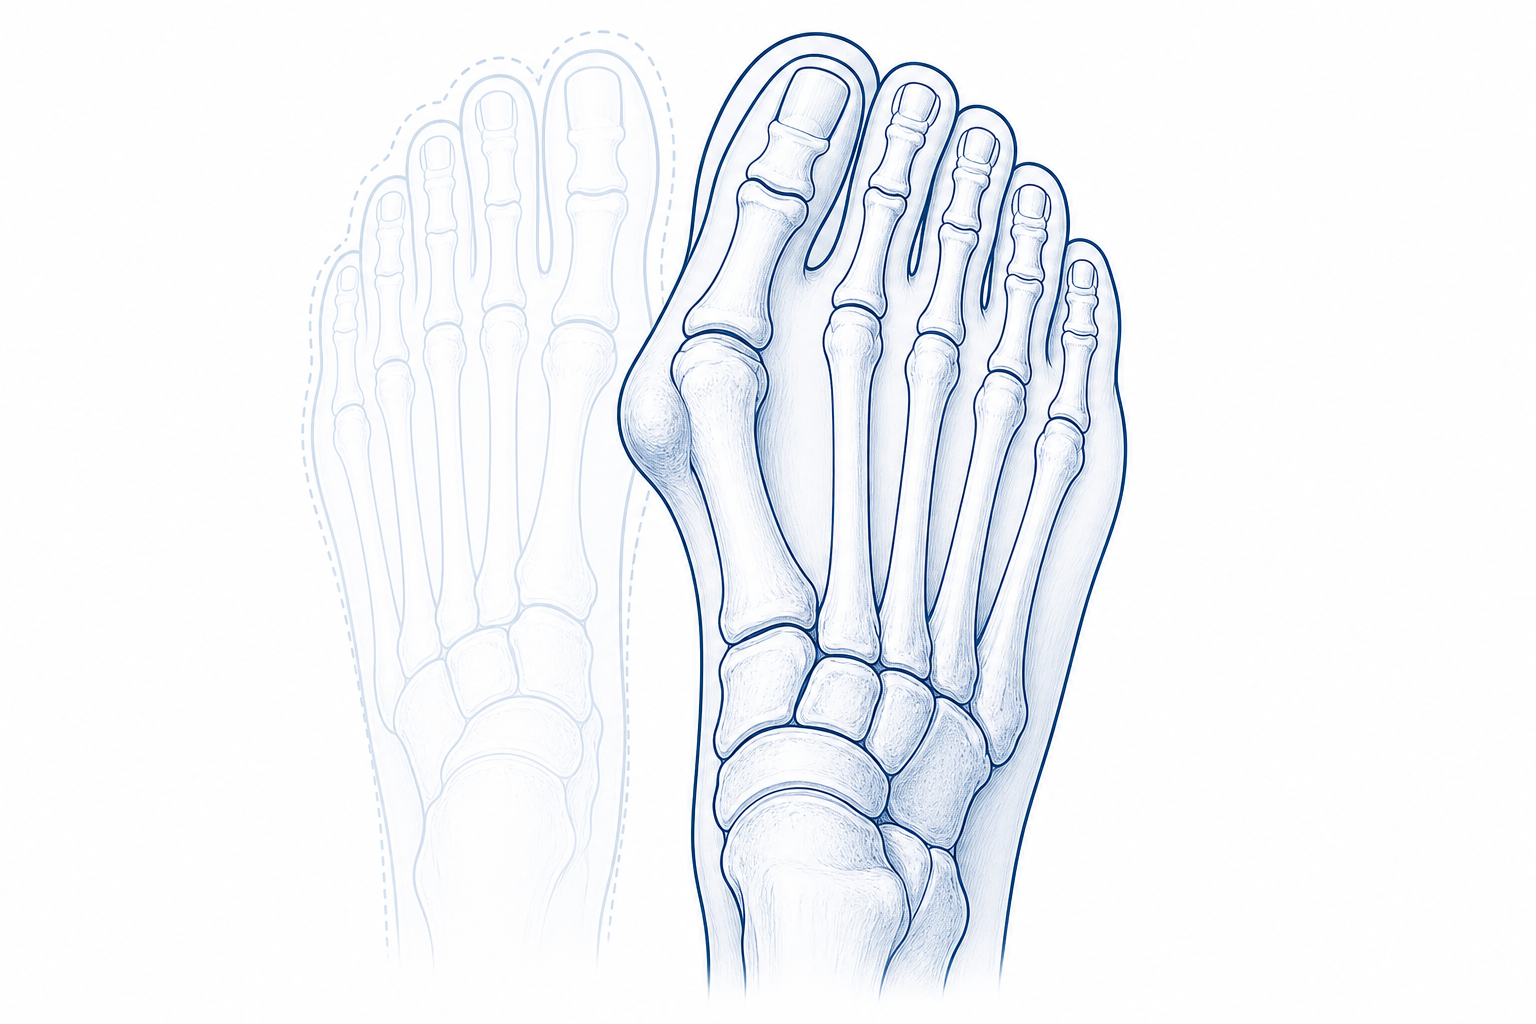
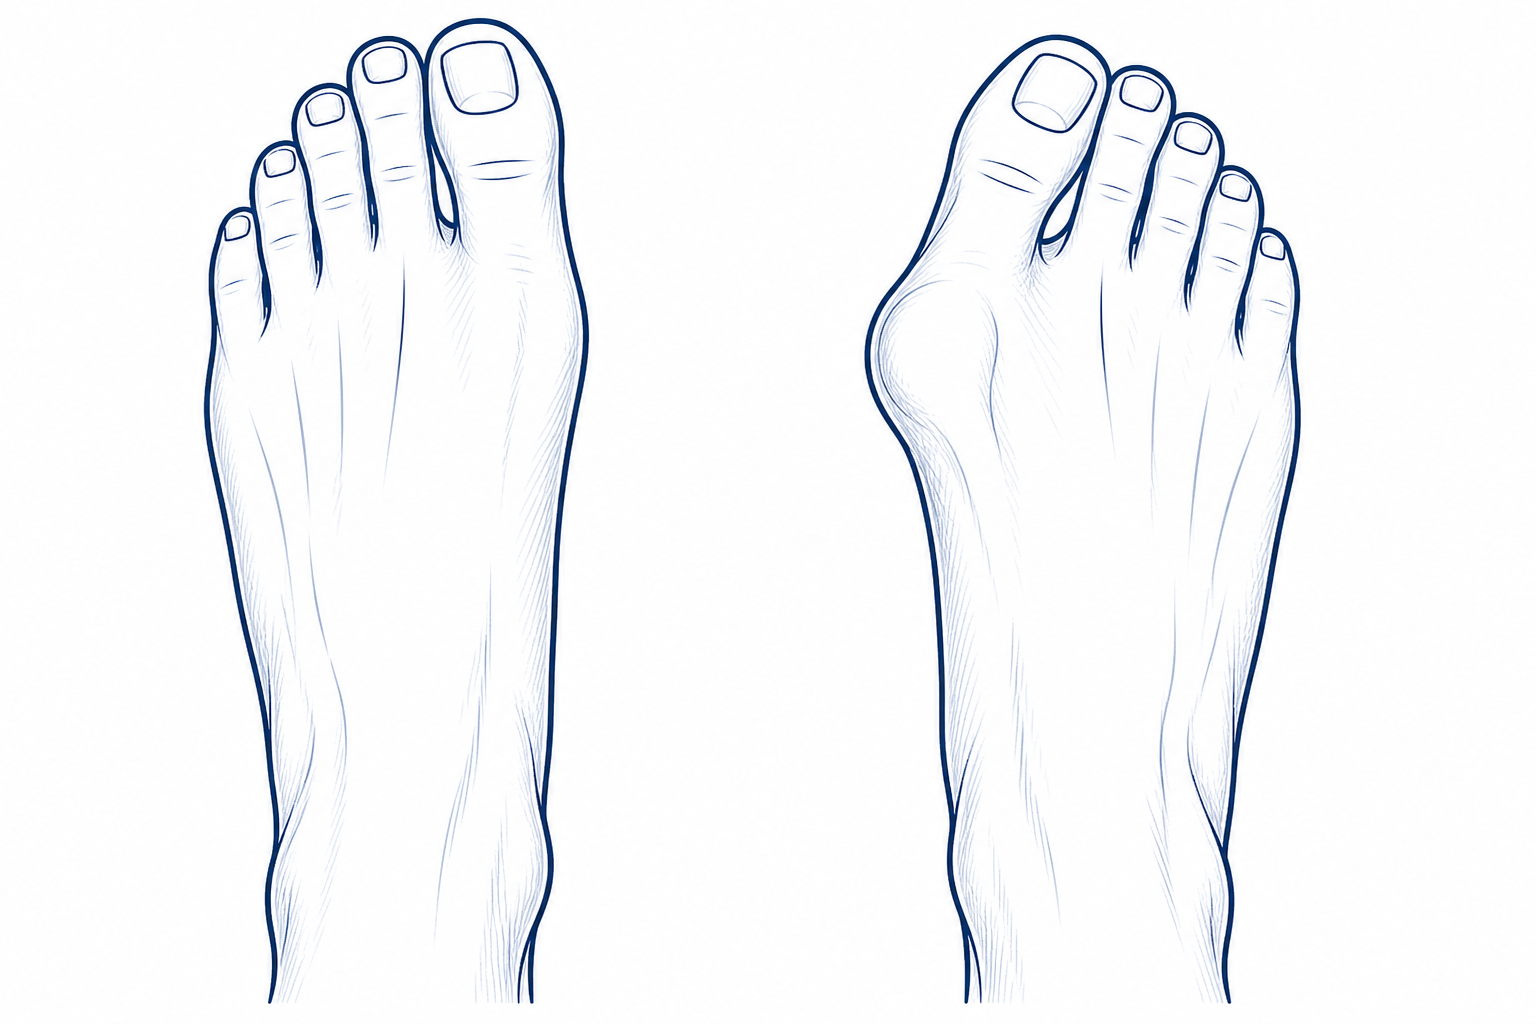
Hallux valgus comparison image: both right feet, equal tone, with gap; enlarge Mermaid Gantt/diagram fonts via CSS

diff --git a/docs/stylesheets/extra.css b/docs/stylesheets/extra.css
@@ -191,6 +191,57 @@
 }
 
 /* ------------------------------------------------------------
+ * Mermaid 図のフォント調整（Gantt 等の可読性向上）
+ * ------------------------------------------------------------ */
+
+.md-typeset .mermaid {
+  text-align: center;
+  margin: 1.5rem 0;
+}
+
+.md-typeset .mermaid svg {
+  max-width: 100%;
+  height: auto;
+}
+
+.md-typeset .mermaid text,
+.md-typeset .mermaid .label,
+.md-typeset .mermaid .nodeLabel,
+.md-typeset .mermaid .edgeLabel,
+.md-typeset .mermaid .taskText,
+.md-typeset .mermaid .taskTextOutsideLeft,
+.md-typeset .mermaid .taskTextOutsideRight,
+.md-typeset .mermaid .titleText,
+.md-typeset .mermaid .sectionTitle,
+.md-typeset .mermaid .tick text {
+  font-size: 15px !important;
+  font-weight: 500;
+}
+
+.md-typeset .mermaid .titleText {
+  font-size: 18px !important;
+  font-weight: 700;
+}
+
+.md-typeset .mermaid .sectionTitle {
+  font-size: 15px !important;
+  font-weight: 600;
+}
+
+@media screen and (max-width: 768px) {
+  .md-typeset .mermaid text,
+  .md-typeset .mermaid .taskText,
+  .md-typeset .mermaid .taskTextOutsideLeft,
+  .md-typeset .mermaid .taskTextOutsideRight,
+  .md-typeset .mermaid .tick text {
+    font-size: 13px !important;
+  }
+  .md-typeset .mermaid .titleText {
+    font-size: 16px !important;
+  }
+}
+
+/* ------------------------------------------------------------
  * Material grid cards の高さを揃える
  * ------------------------------------------------------------ */
 